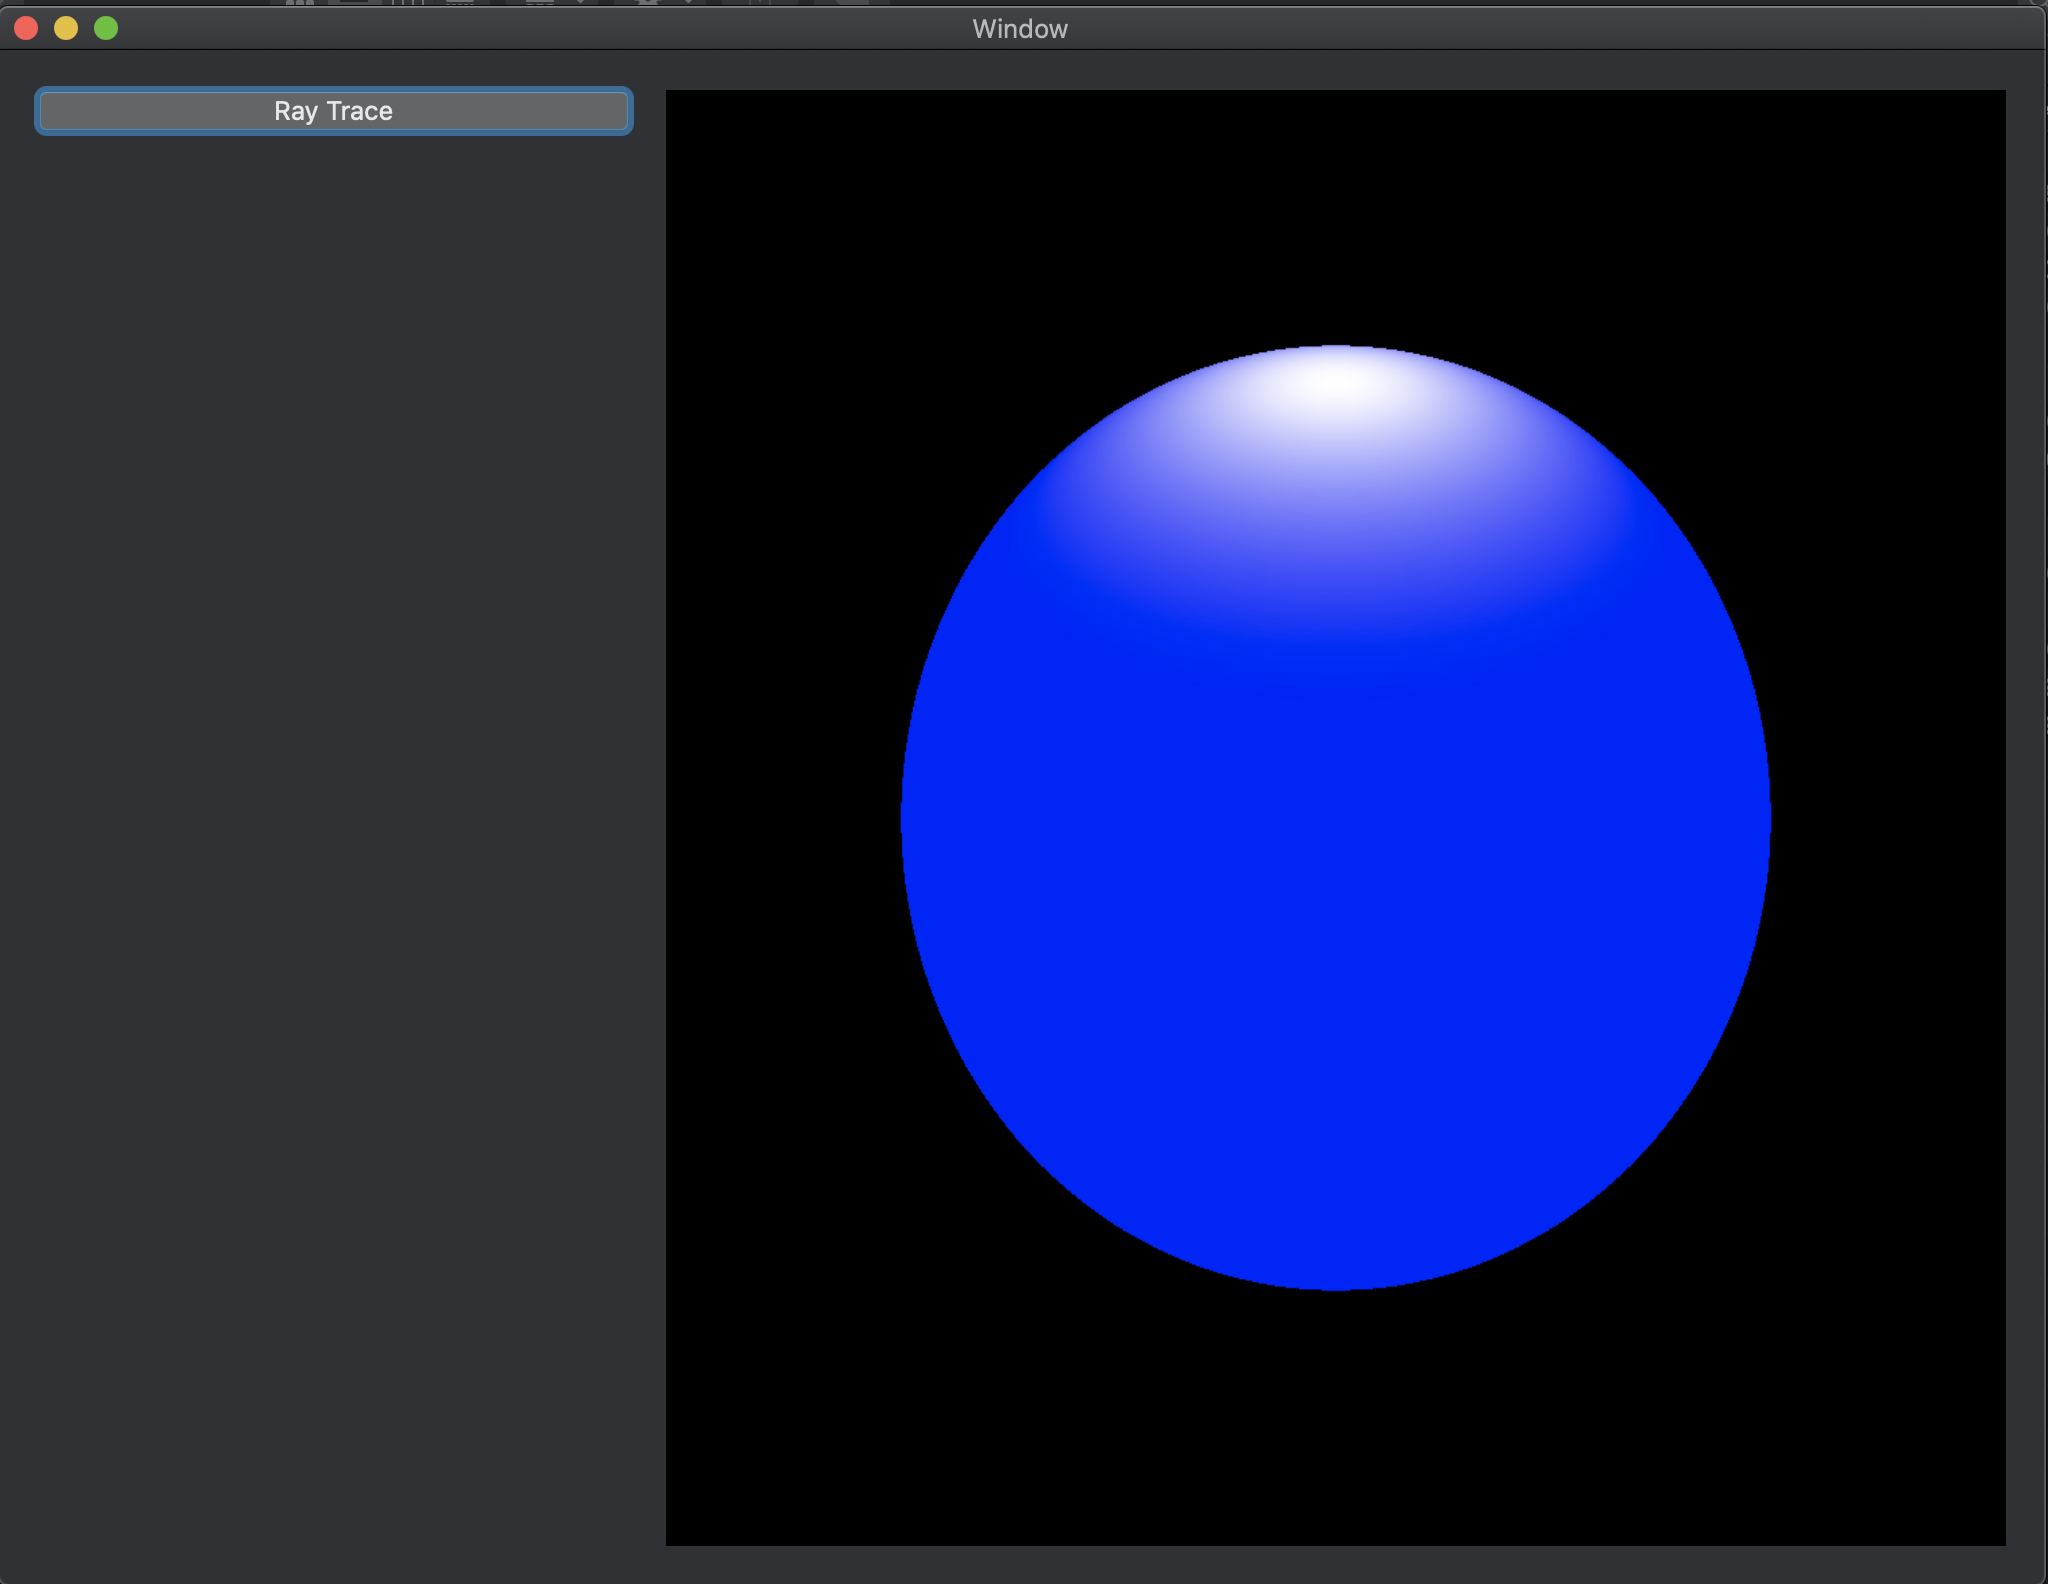
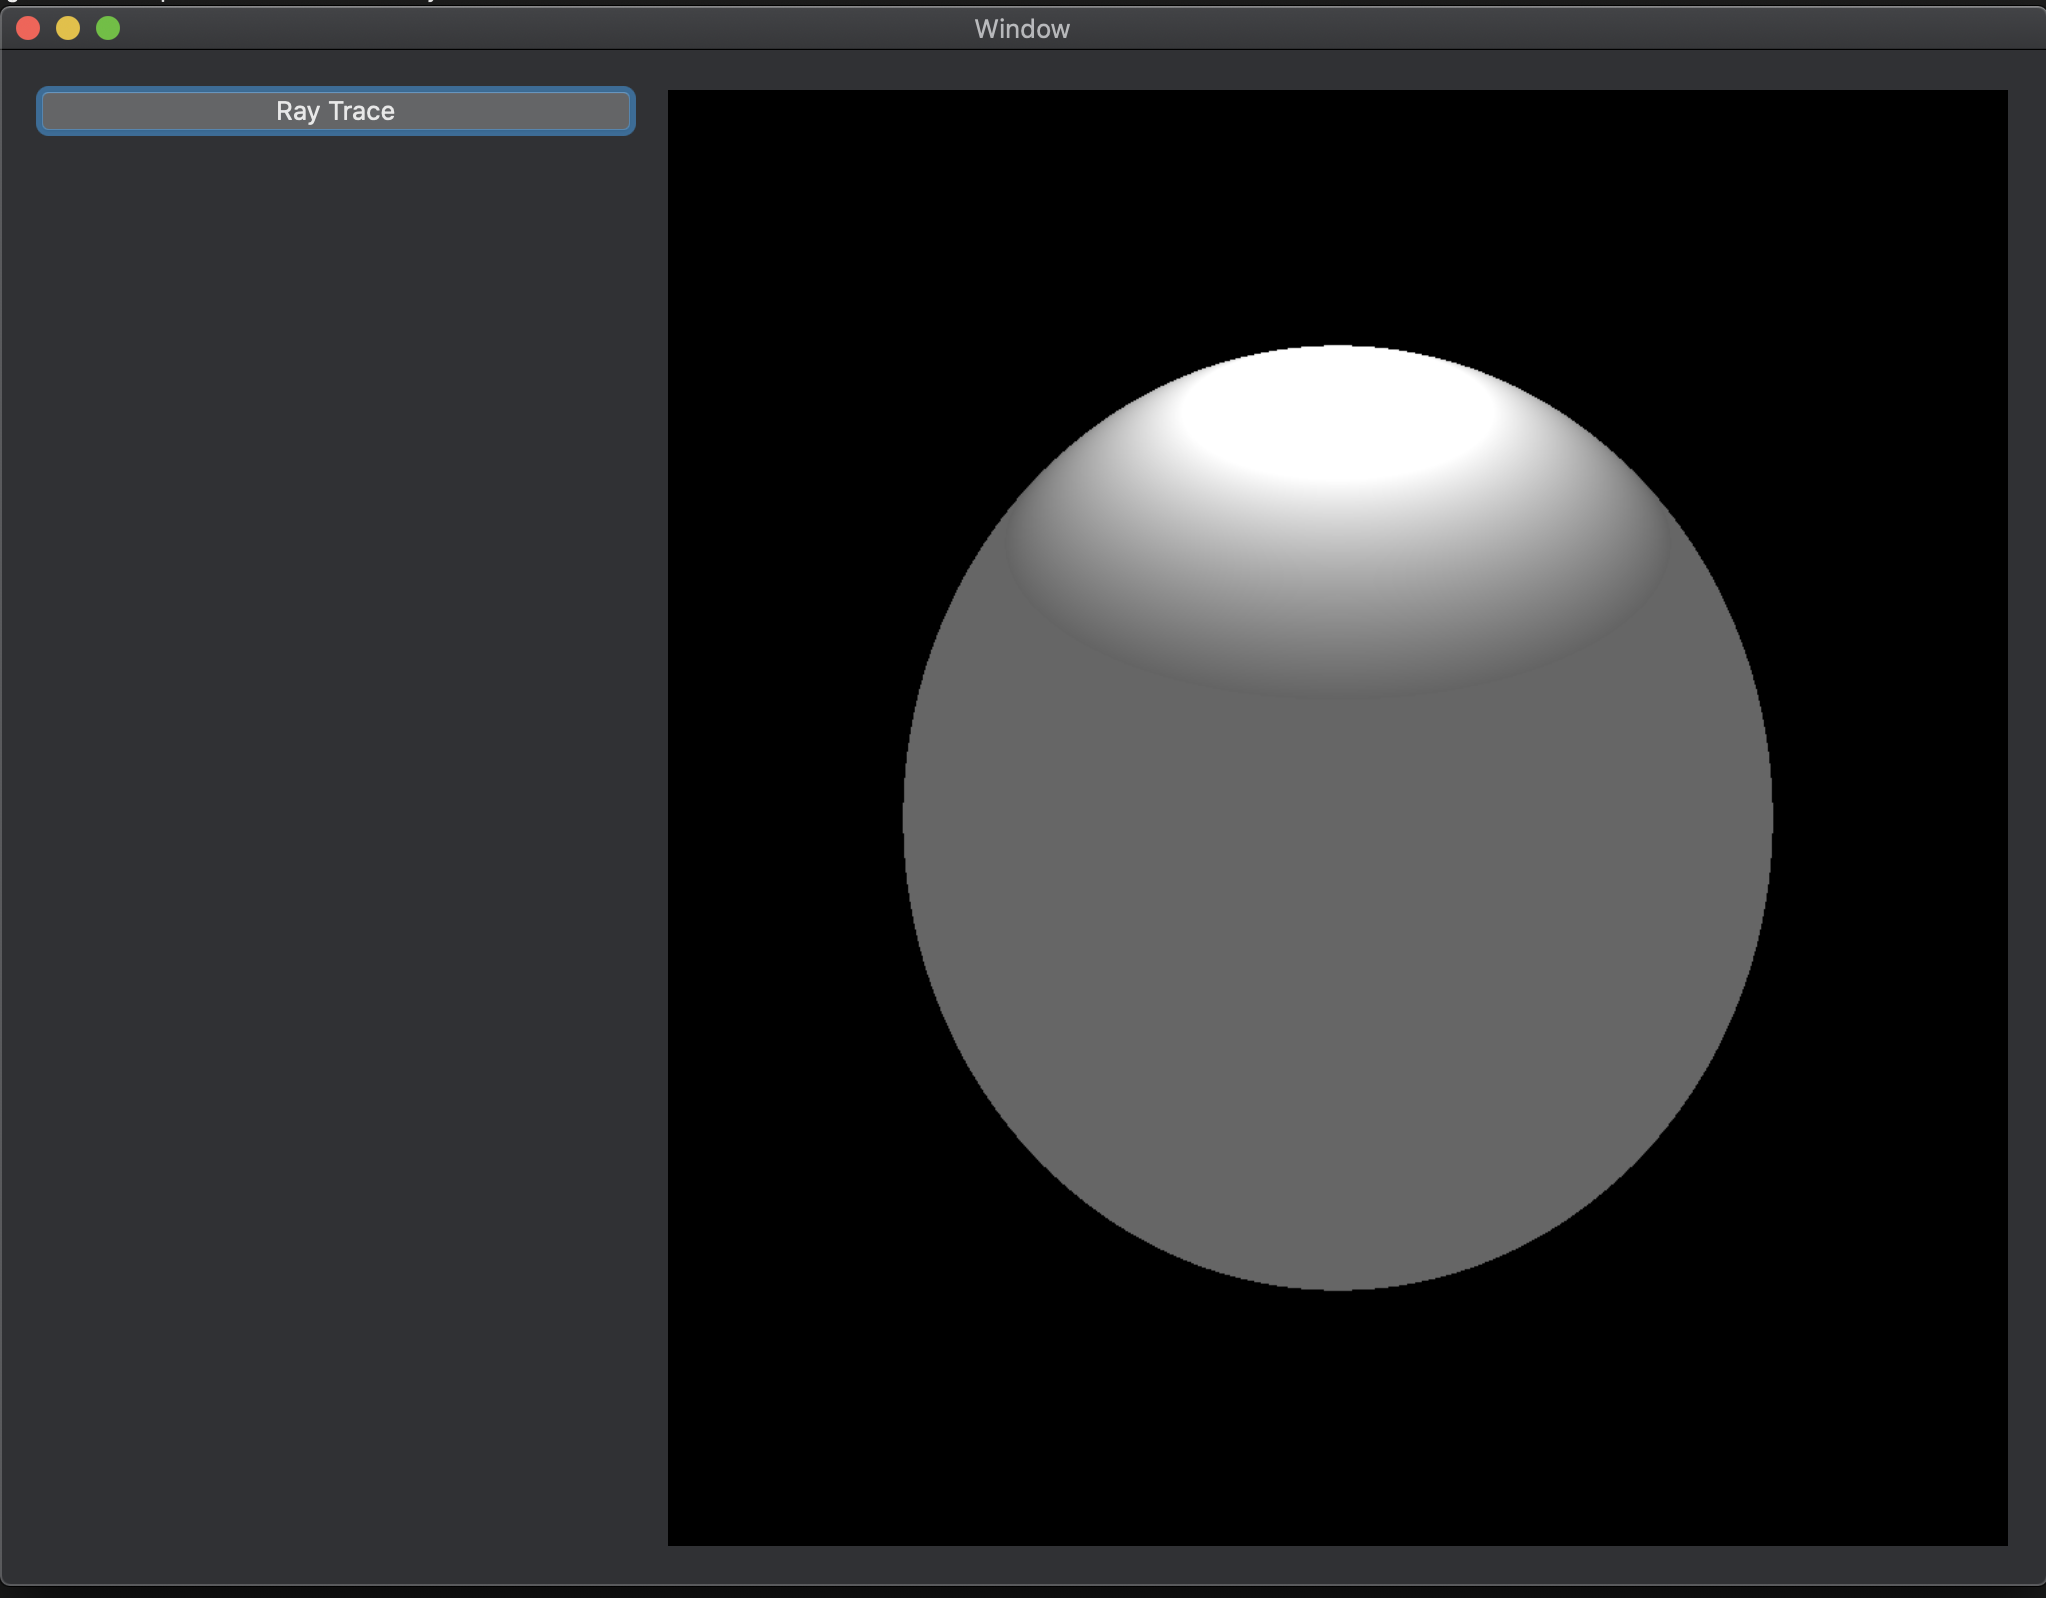
Add some basic ambient lighting and remove all custom vector code in favor of Swift's simd library

diff --git a/RayTraceUI/ViewController.swift b/RayTraceUI/ViewController.swift
@@ -8,6 +8,7 @@
 
 import Cocoa
 import CoreGraphics
+import simd
 
 let imageWidth = 999
 let imageHeight = 999
@@ -15,7 +16,7 @@ let imageHeight = 999
 struct SnowyImageData {
     var outputBitmap : [UInt8] = ([UInt8])(repeating: 0, count: 4 * imageWidth * imageHeight)
     var snowyCGImage : CGImage!
-    
+
     init() {
         for i in 0..<imageWidth {
             for j in 0..<imageHeight {
@@ -27,7 +28,7 @@ struct SnowyImageData {
                 outputBitmap[firstByte + 3] = 255
             }
         }
-        
+
         outputBitmap.withUnsafeBytes() { (buffer : UnsafeRawBufferPointer) in
             let dataProvider = CGDataProvider(dataInfo: nil,
                                               data: buffer.baseAddress!,
@@ -35,7 +36,7 @@ struct SnowyImageData {
                                               releaseData: {
                                                 (_, _, _) -> Void in
             })!
-            
+
             self.snowyCGImage = CGImage(width: imageWidth,
                                  height: imageHeight,
                                  bitsPerComponent: 8,
@@ -61,7 +62,7 @@ func createOpacityAnimation(from : Float, to : Float, duration : Double, fadeInO
         opacityAnimation.values = [from, to]
         opacityAnimation.keyTimes = [0, 1]
     }
-    
+
     opacityAnimation.duration = duration
     opacityAnimation.repeatCount = repeatCount
     opacityAnimation.fillMode = CAMediaTimingFillMode.forwards
@@ -85,7 +86,7 @@ class SnowyImageRenderer {
             snowyImageLayers.append(snowLayer)
         }
     }
-    
+
     func start() {
         let fromTo : [(Float, Float)] = [(0.4, 1.0), (1.0, 0.4)]
         zip(snowyImageLayers, fromTo).forEach { (layer : CALayer, f : (Float, Float)) in
@@ -94,7 +95,7 @@ class SnowyImageRenderer {
             layer.opacity = f.1
         }
     }
-    
+
     func stop() {
         snowyImageLayers.forEach { $0.opacity = 0 }
         snowyImageLayers.forEach { $0.removeAllAnimations() }
@@ -108,7 +109,7 @@ class ViewController: NSViewController {
     var snowGenerator : SnowyImageRenderer!
 
     let camXCoord : Float = 0
-    
+
     @IBOutlet weak var camZ: NSTextField!
     @IBOutlet weak var camY: NSTextField!
     @IBOutlet weak var camX: NSTextField!
@@ -126,16 +127,23 @@ class ViewController: NSViewController {
         rayTraceImageLayer.frame = rtView.bounds
         rtView.layer!.addSublayer(rayTraceImageLayer)
     }
-    
+
     @IBAction func startRT(_ sender: Any) {
         snowGenerator.start()
         rayTraceImageLayer.opacity = 0.0
-        
+
         var rayTraceCGImage : CGImage!
         DispatchQueue.global().async(group: group) { () in
 
-            rayTraceSphere(camera: (0, 0, 2500), focalLength: 2000, radius: 400, circleCenter: (0, 0, 0), pointLight: (0, 500, 300), imageWidth: imageWidth, imageHeight: imageHeight, outputBitmap: &self.outputBitmap)
-            
+            rayTraceSphere(camera: simd_float3(0, 0, 2500),
+                           focalLength: 2000,
+                           radius: 400,
+                           circleCenter: simd_float3(0, 0, 0),
+                           pointLight: simd_float3(0, 500, 300),
+                           imageWidth: imageWidth,
+                           imageHeight: imageHeight,
+                           outputBitmap: &self.outputBitmap)
+
             self.outputBitmap.withUnsafeBytes() { (buffer : UnsafeRawBufferPointer) in
                 rayTraceCGImage = CGImage(width: imageWidth,
                                           height: imageHeight,
@@ -148,14 +156,14 @@ class ViewController: NSViewController {
                                                                    data: buffer.baseAddress!,
                                                                    size: self.outputBitmap.count,
                                                                    releaseData: { (_, _, _) in
-                                                                    
+
                                           })!,
                                           decode: nil,
                                           shouldInterpolate: false,
                                           intent: CGColorRenderingIntent.defaultIntent)!
             }
         }
-        
+
         DispatchQueue.main.async {
             self.group.wait()
             self.rayTraceImageLayer.contents = rayTraceCGImage
@@ -170,26 +178,25 @@ class ViewController: NSViewController {
     }
 }
 
-var ctr : Int = 0
-
-func rayTraceSphere(camera : (Float, Float, Float),
+func rayTraceSphere(camera : simd_float3,
                     focalLength : Float,
                     radius : Float,
-                    circleCenter: (Float, Float, Float),
-                    pointLight : (Float, Float, Float),
+                    circleCenter: simd_float3,
+                    pointLight : simd_float3,
                     imageWidth : Int,
                     imageHeight : Int,
                     outputBitmap : inout [UInt8]) {
     let radiusSquared : Float = pow(radius, 2)
-
+    let ambientLight : UInt8 = 100
+    
     for i in 0..<imageWidth {
         for j in 0..<imageHeight {
-            let cameraToPixelVector = subv((Float(i - imageWidth / 2), Float(imageHeight / 2 - j), camera.2 - focalLength), camera)
-            let c2punit = unitv(cameraToPixelVector)
-            
-            let eyeCenterDiff = subv(camera, circleCenter)
-            let a = -dp(c2punit, eyeCenterDiff)
-            let delta = pow(a, 2) - (dp(eyeCenterDiff, eyeCenterDiff) - radiusSquared)
+            let cameraToPixelVector = simd_float3(Float(i - imageWidth / 2), Float(imageHeight / 2 - j), camera.z - focalLength) - camera
+            let c2punit = simd_normalize(cameraToPixelVector)
+
+            let eyeCenterDiff = camera - circleCenter
+            let a = -simd_dot(c2punit, eyeCenterDiff)
+            let delta = pow(a, 2) - (simd_dot(eyeCenterDiff, eyeCenterDiff) - radiusSquared)
 
             let firstByte = j * imageWidth * 4 + i * 4
             if delta < 0 {
@@ -201,78 +208,54 @@ func rayTraceSphere(camera : (Float, Float, Float),
             }
 
             let sqrtdelta = sqrt(delta)
-            
+
             let d = (a + sqrtdelta, a - sqrtdelta)
             print("intersection parameter values for (\(i), \(j))")
             print("\(d.0) / \(d.1)")
-            let p : (Float, Float, Float) = addv(camera, sv(c2punit, d.0))
-            let q : (Float, Float, Float) = addv(camera, sv(c2punit, d.1))
-    //        print("first point of intersection: (\(String(p1.0)), \(String(p1.1)), \(String(p1.2)))")
-    //        print("second point of intersection: (\(String(p2.0)), \(String(p2.1)), \(String(p2.2)))")
-            print("Point of intersection: (\(String(p.0)), \(String(p.1)), \(String(p.2)))")
-            print("Point of intersection: (\(String(q.0)), \(String(q.1)), \(String(q.2)))")
-            let cam2P = subv(p, camera)
-            let cam2Q = subv(q, camera)
-            let pdist = vlen(cam2P)
-            let qdist = vlen(cam2Q)
-            
-            var spherePoint : (Float, Float, Float)
-            
+            let p : simd_float3 = camera + d.0 * c2punit
+            let q : simd_float3 = camera + d.1 * c2punit
+            print("Point of intersection: (\(String(p.x)), \(String(p.y)), \(String(p.z)))")
+            print("Point of intersection: (\(String(q.x)), \(String(q.y)), \(String(q.z)))")
+            let cam2P = p - camera
+            let cam2Q = q - camera
+            let pdist = simd_length(cam2P)
+            let qdist = simd_length(cam2Q)
+
+            var spherePoint : simd_float3
+
             if pdist < qdist {
                 spherePoint = p
             } else {
                 spherePoint = q
             }
-            
-            var normalAtIntersection : (Float, Float, Float) = subv(spherePoint, circleCenter)
-            let pointLightVector = unitv(subv(pointLight, spherePoint))
-            print("pointlight vector: (\(String(pointLightVector.0)), \(String(pointLightVector.1)), \(String(pointLightVector.2)))")
-            print("normal at intersection: (\(String(normalAtIntersection.0)), \(String(normalAtIntersection.1)), \(String(normalAtIntersection.2)))")
-            normalAtIntersection = unitv(normalAtIntersection)
-            var intensityMultipler = dp(pointLightVector, normalAtIntersection)
-            print("Intensity Multiplier: \(intensityMultipler)")
-            if intensityMultipler <= 0 {
-                intensityMultipler = 0.01 // implies normal is in opposite direction of point light vector and shouldn't be illuminated
-            } else {
-                intensityMultipler /= dp(pointLightVector, pointLightVector) // distance correction for square of distance
-            }
-            print("setting outputbitmap")
-            outputBitmap[firstByte] = UInt8(255 * intensityMultipler)
-            outputBitmap[firstByte + 1] = UInt8(255 * intensityMultipler)
-            outputBitmap[firstByte + 2] = 255
-            outputBitmap[firstByte + 3] = 255
-            print("sett outputbitmap")
 
+            var normalAtIntersection : simd_float3 = spherePoint - circleCenter
+            let pointLightVector = simd_normalize(pointLight - spherePoint)
+            print("pointlight vector: (\(String(pointLightVector.x)), \(String(pointLightVector.y)), \(String(pointLightVector.z)))")
+            print("normal at intersection: (\(String(normalAtIntersection.x)), \(String(normalAtIntersection.y)), \(String(normalAtIntersection.z)))")
+            normalAtIntersection = simd_normalize(normalAtIntersection)
+            var intensityMultiplier = simd_dot(pointLightVector, normalAtIntersection)
+            print("Intensity Multiplier: \(intensityMultiplier)")
+            if intensityMultiplier <= 0 {
+                intensityMultiplier = 0.01 // implies normal is in opposite direction of point light vector and shouldn't be illuminated
+            } else {
+                intensityMultiplier /= simd_dot(pointLightVector, pointLightVector) // distance correction for square of distance
+            }
+            
+            var rgbValue = UInt8(255 * intensityMultiplier)
+            
+            let (val, of) = rgbValue.addingReportingOverflow(ambientLight)
+            
+            if of {
+                rgbValue = 255
+            } else {
+                rgbValue = val
+            }
+            
+            outputBitmap[firstByte] = rgbValue
+            outputBitmap[firstByte + 1] = rgbValue
+            outputBitmap[firstByte + 2] = rgbValue
+            outputBitmap[firstByte + 3] = 255
         }
     }
 }
-
-func dp(_ v1 : (Float, Float, Float), _ v2 : (Float, Float, Float)) -> Float {
-    return v1.0 * v2.0 + v1.1 * v2.1 + v1.2 * v2.2
-}
-
-func sv(_ v1 : (Float, Float, Float), _ m : (Float)) -> (Float, Float, Float) {
-    return (v1.0 * m, v1.1 * m, v1.2 * m)
-}
-
-func subv(_ v1 : (Float, Float, Float), _ v2 : (Float, Float, Float)) -> (Float, Float, Float) {
-    return addv(v1, negv(v2))
-}
-
-func addv(_ v1 : (Float, Float, Float), _ v2 : (Float, Float, Float)) -> (Float, Float, Float) {
-    return (v1.0 + v2.0, v1.1 + v2.1, v1.2 + v2.2)
-}
-
-func unitv(_ v : (Float, Float, Float)) -> (Float, Float, Float) {
-    let vlength = vlen(v)
-    return sv(v, 1 / vlength)
-}
-
-func negv(_ v: (Float, Float, Float)) -> (Float, Float, Float) {
-    return (-v.0, -v.1, -v.2)
-}
-
-func vlen(_ v: (Float, Float, Float)) -> Float {
-    return sqrt(dp(v, v))
-}
-
